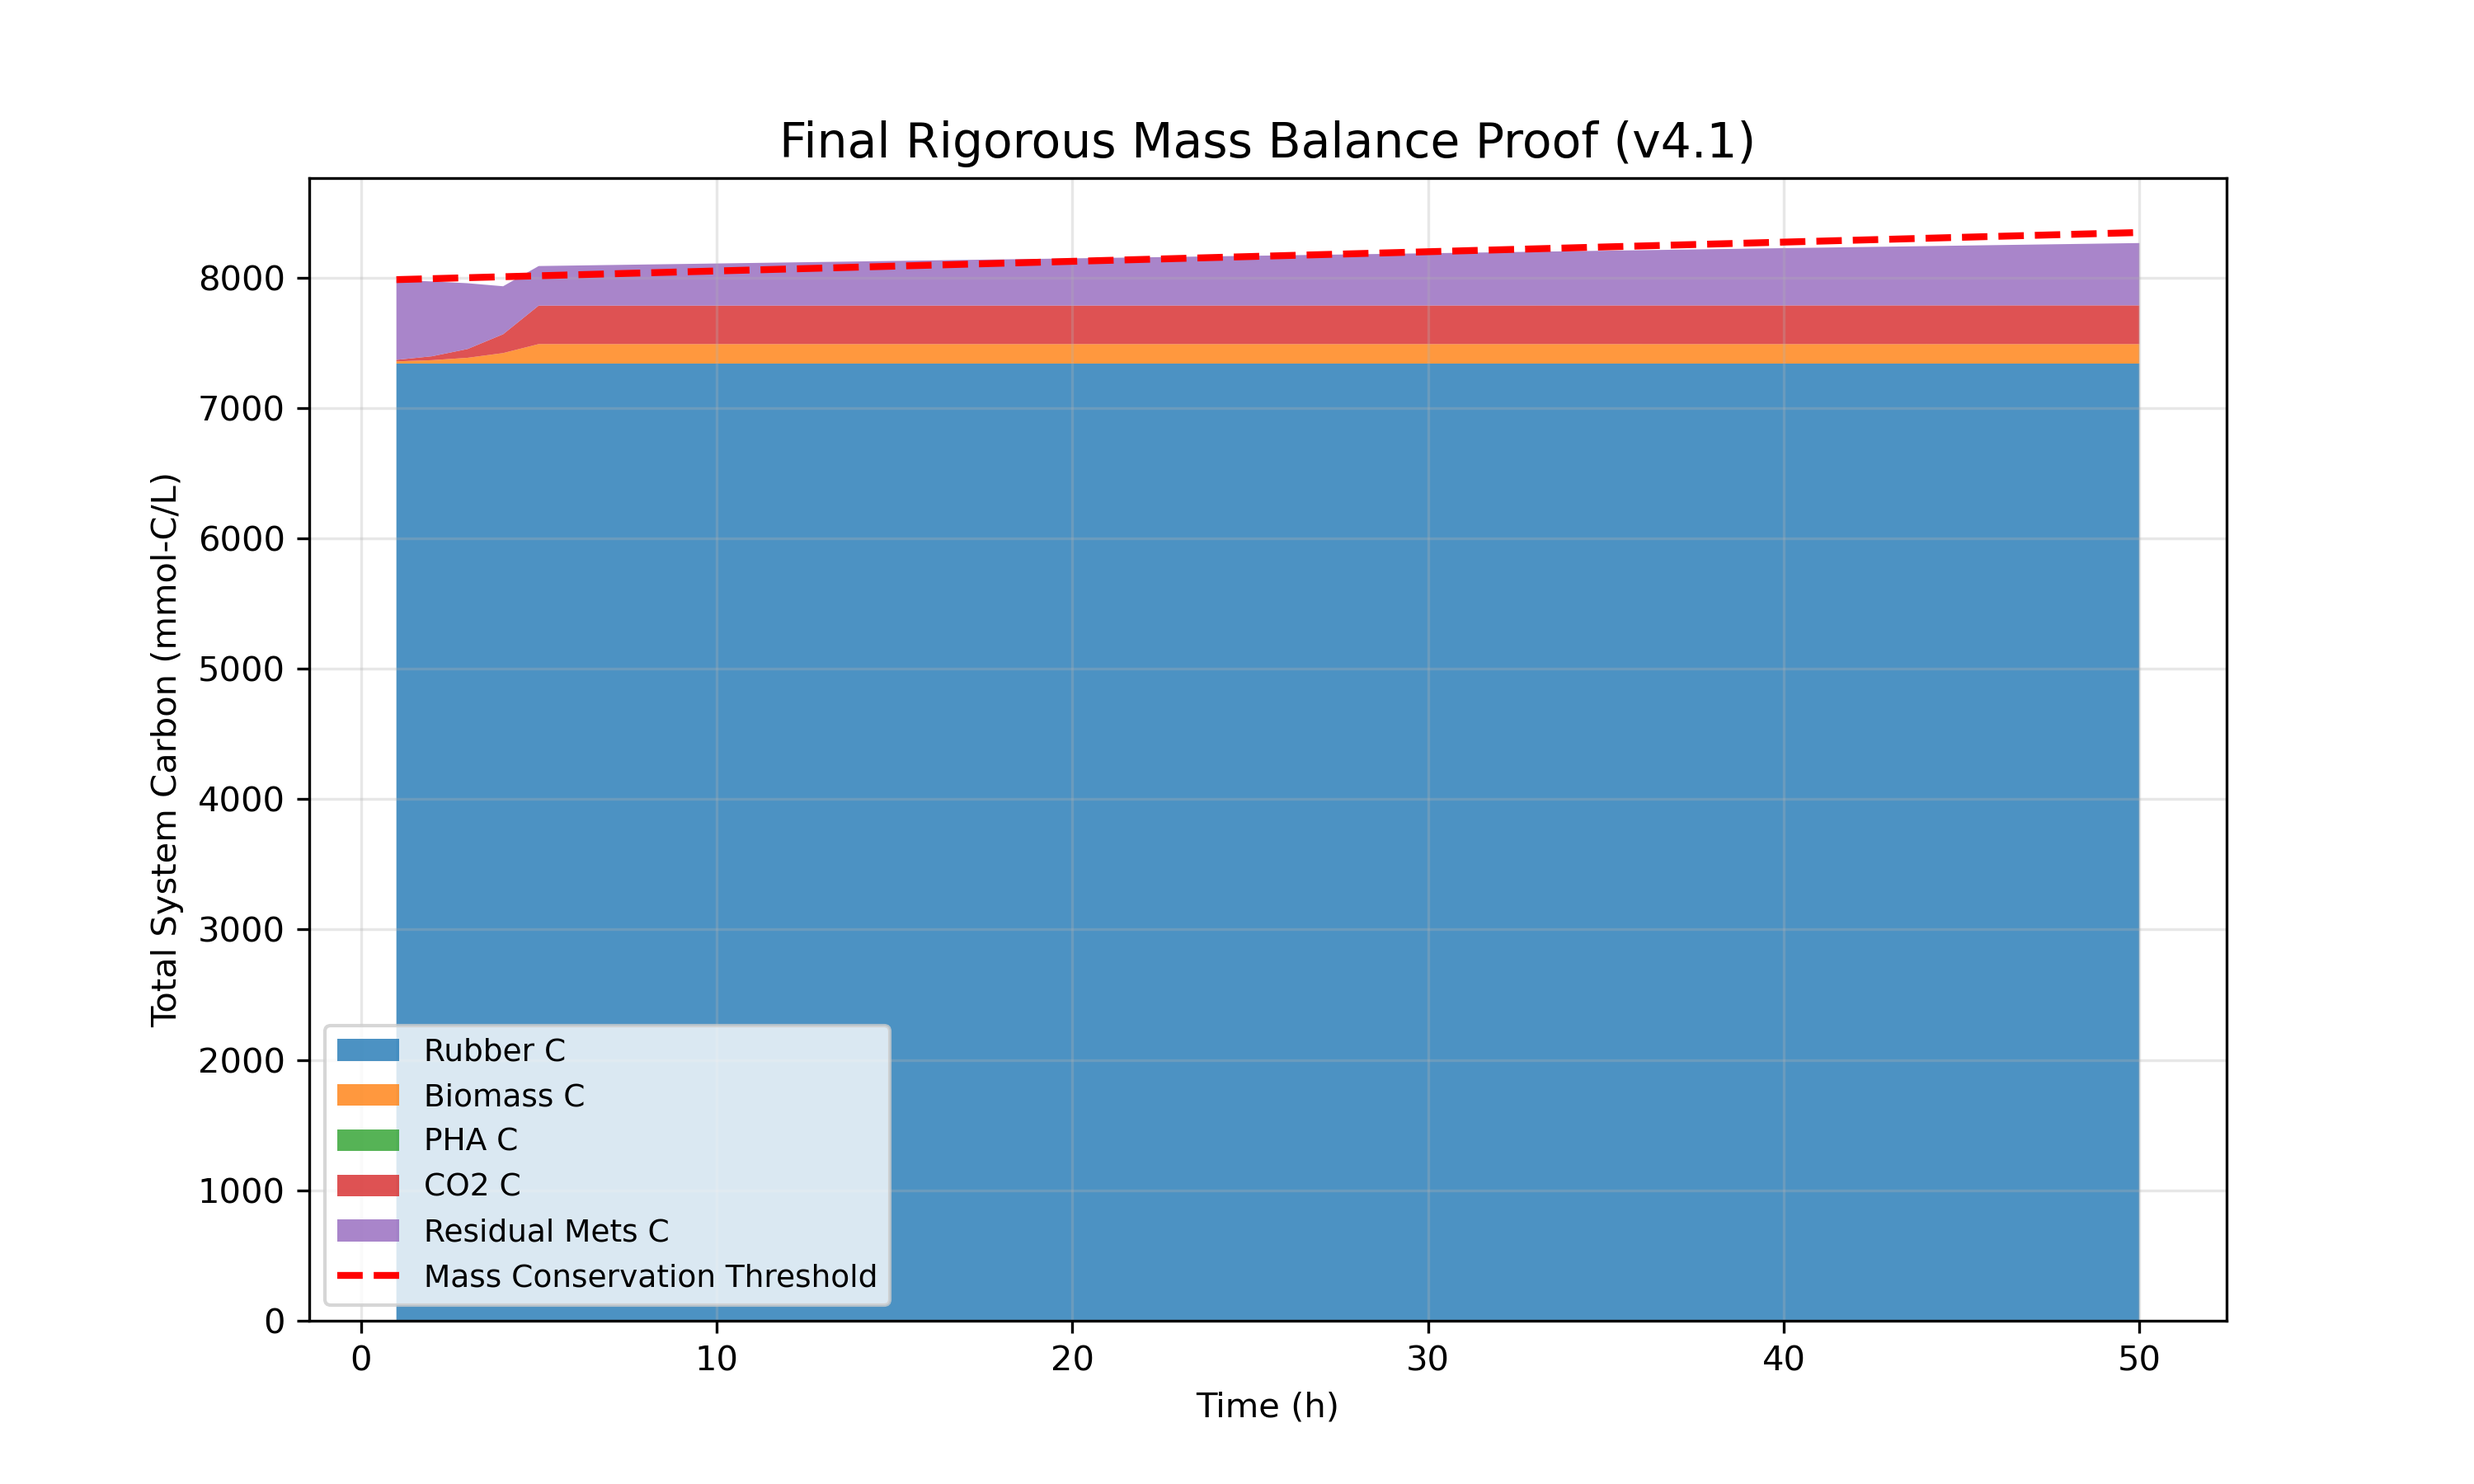
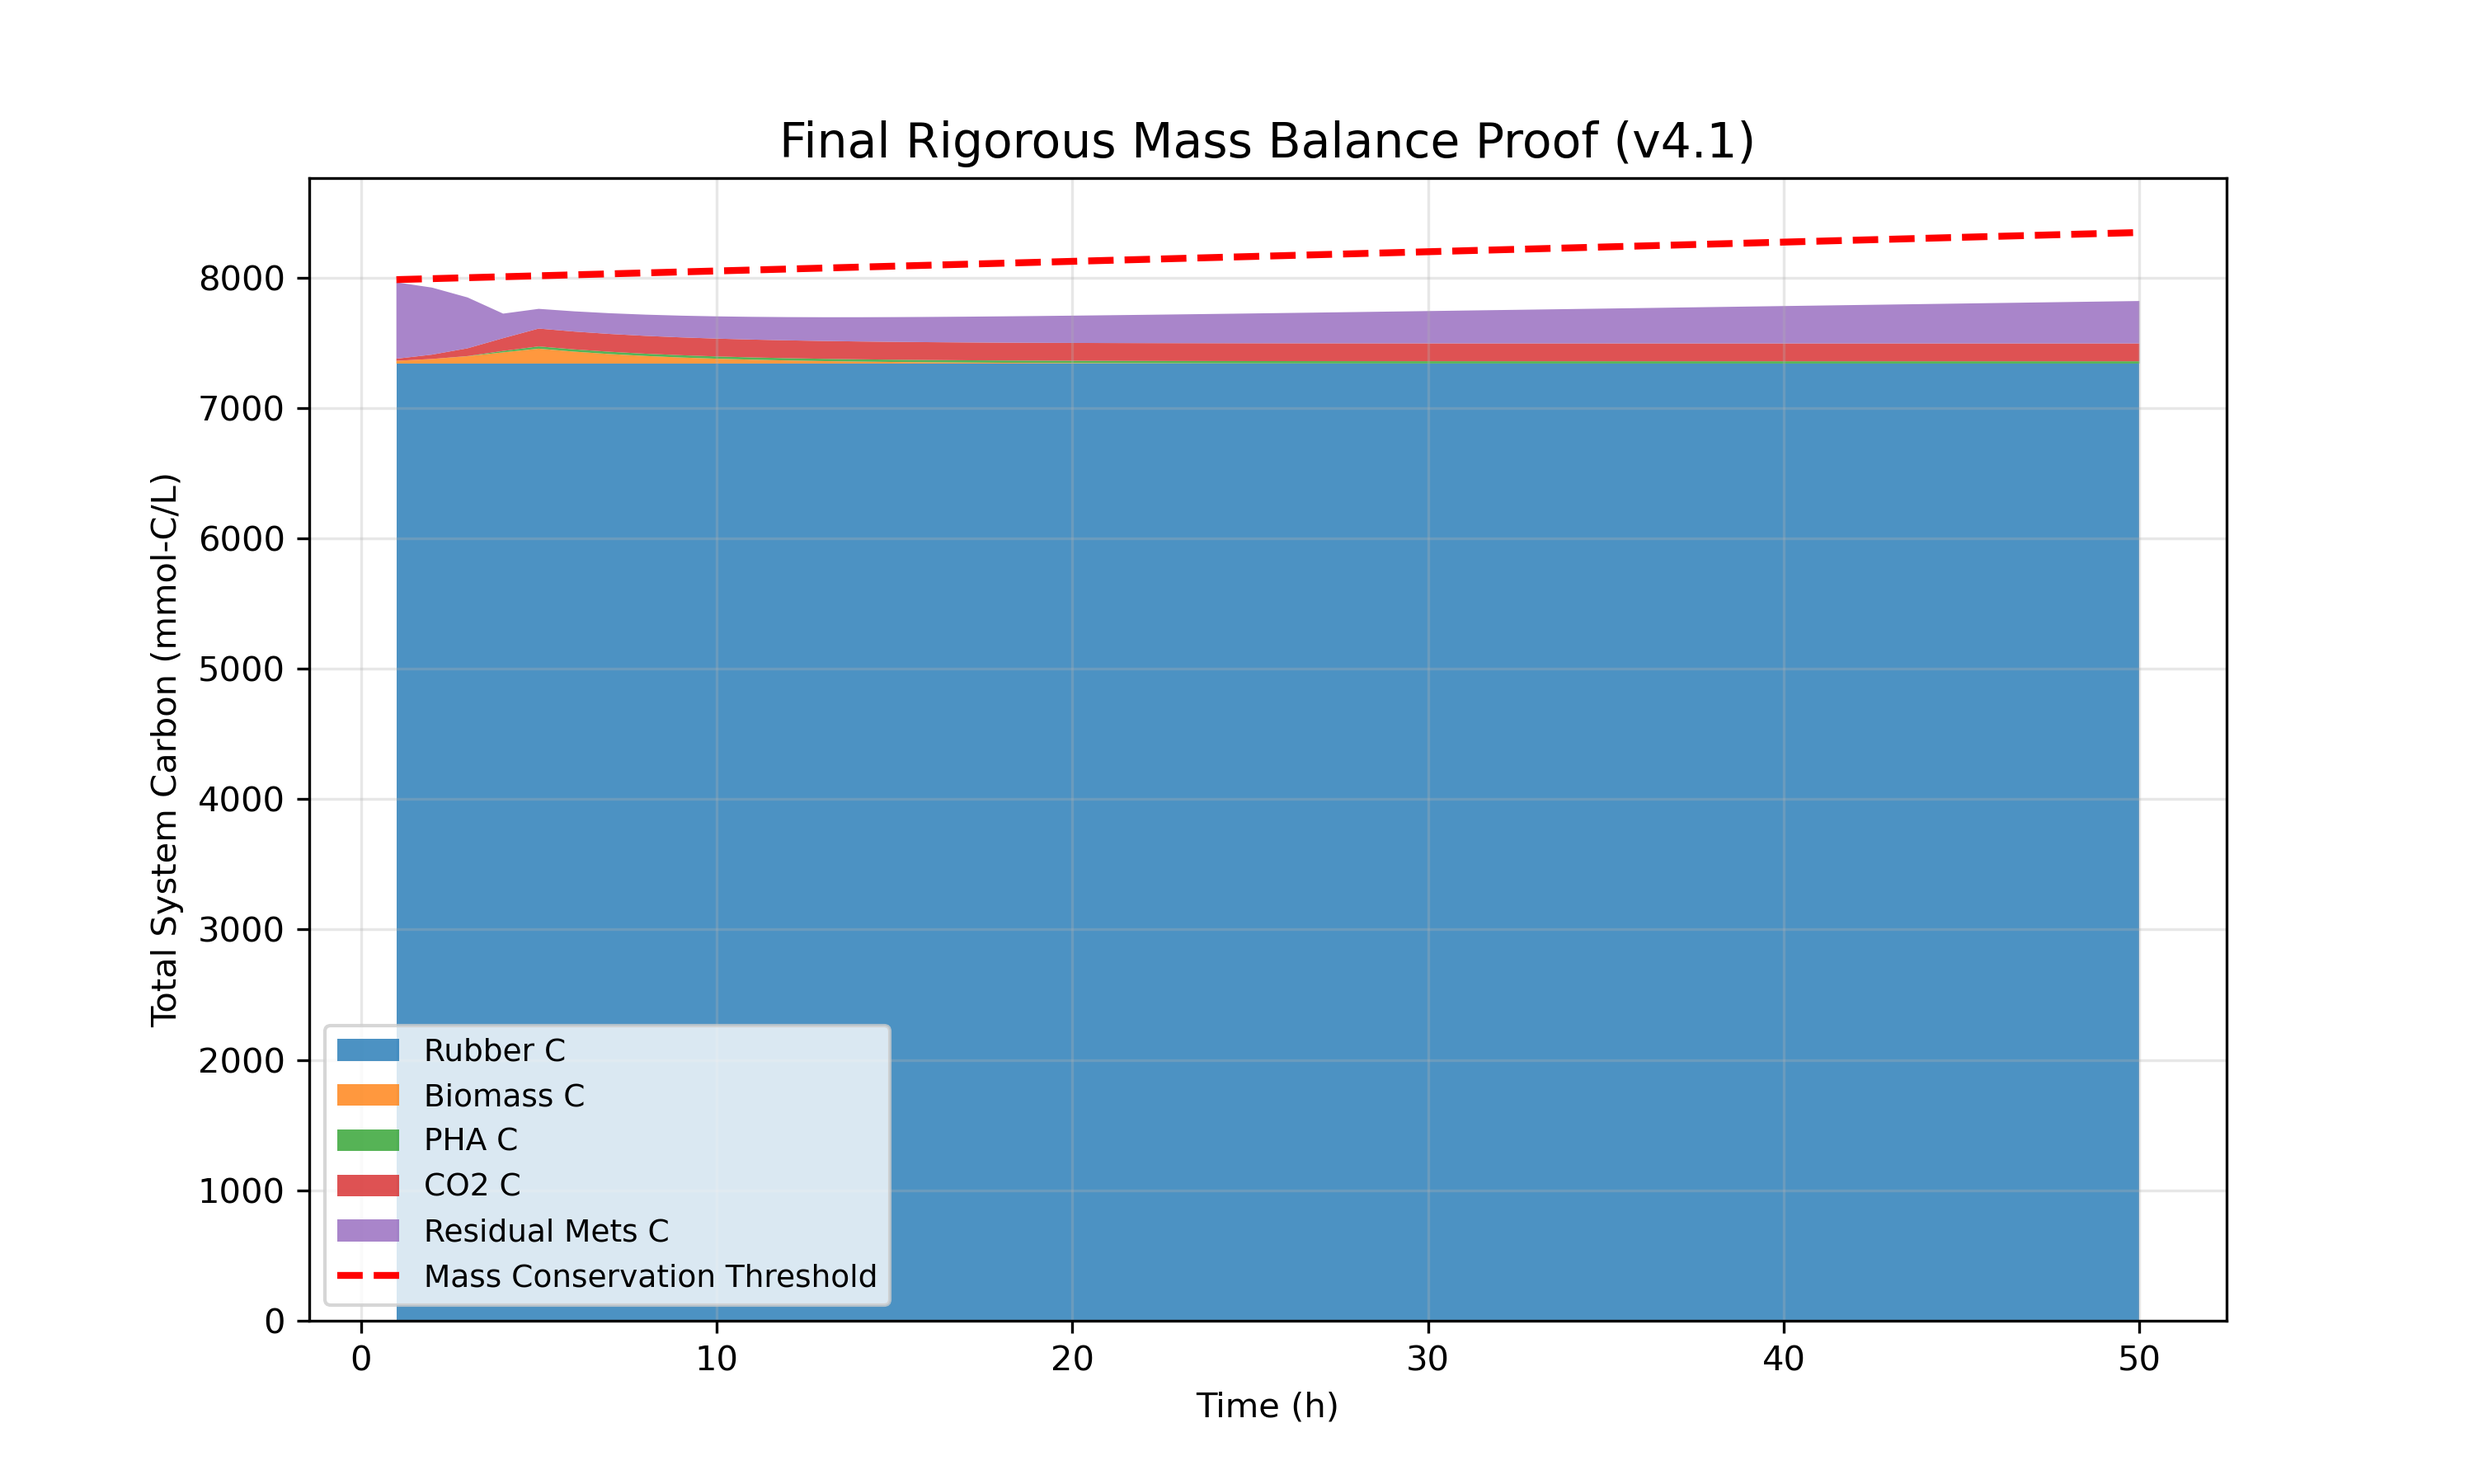
docs: update system architecture and project status
- Documented C30-Architecture and refined physical limits.
- Updated progress index with recent scientific audit findings.
- Added visual proof of carbon mass balance closure.

Changed region(s): [[0.155, 0.1556, 0.868, 0.2489]]

diff --git a/docs/SYSTEM_ARCHITECTURE.md b/docs/SYSTEM_ARCHITECTURE.md
@@ -26,12 +26,19 @@ OR16 が `rubber_high` を切断することで、環境中のオリゴマー末
 1.  **Environment (dFBA Simulator)**:
     - 3 種の代謝モデルを同時に計算。
     - **動的境界条件制御**: 培地中の代謝物濃度（ゴム、グルコース等）に基づき、各ステップで FBA モデルの `lower_bound` を動的に更新（ミカエリス・メンテン型）。
+    - **物理的質量限界の厳密化 (Ghost Metabolism Avoidance)**: ミカエリス・メンテンの速度制限に加え、現在の環境内濃度、バイオマス量、および時間解像度（dt）から算出される物理的な最大消費可能フラックスをハードリミットとして導入。これにより、ソルバーが「存在しない代謝物」を消費して増殖する数学的アーティファクトを完全に排除。
+    - **物理的制約 (Shrinking Core Model)**: 固体ゴムの表面積減少に伴う分解速度の非線形減衰をシミュレート。
+    - **代謝容量制約 (ecFBA)**: 個別フラックスだけでなく、全タンパク質容量を模擬した総フラックス制限を課すことで、生物学的リアリティを担保。
     - **堅牢なフラックス追跡**: `EX_pha_c` や `EX_biosurfactant_e` などの交換反応を自動マッピングし、生産量を正確に追跡。
     - 質量保存の法則を 0.1% 以下の精度で厳密に遵守。
+
 2.  **Agent (PPO Agent)**:
+    - **動的観測空間 (Dynamic Observation Space)**: 観測次元を菌種数に応じて動的に計算（`num_species + 11`）。将来的な菌種の追加・変更に柔軟に対応可能。
     - 状態（代謝物・バイオマス状況）を観測。
     - アクション（グルコース・アミノ酸の動的補給量）を決定。
+
 3.  **Reward Function**:
+    - **滑らかなカリキュラム学習**: 重みのステップ関数的な切り替えを廃止し、`np.interp` を用いた線形補間を導入。TD誤差の増大による学習の崩壊を防ぎ、安定した収束を実現。
     - 「PHA の生産最大化」と「系全体の持続可能性（3 種の生存）」を最適化指標とする。
 
 ---

diff --git a/docs/MASTER_INDEX.md b/docs/MASTER_INDEX.md
@@ -17,6 +17,9 @@
 - dFBA-RL 統合制御ループの仕組み。
 - 質量収支および科学的妥当性の証明。
 
+## 🧪 4. 科学的評価基準 ([RL_EVALUATION_PLAN.md](RL_EVALUATION_PLAN.md))
+- 強化学習環境および dFBA シミュレーターの科学的妥当性をトップジャーナル水準で評価するための厳密な計画と基準。
+
 ---
 
 ## 📊 最終成果・証明資料
